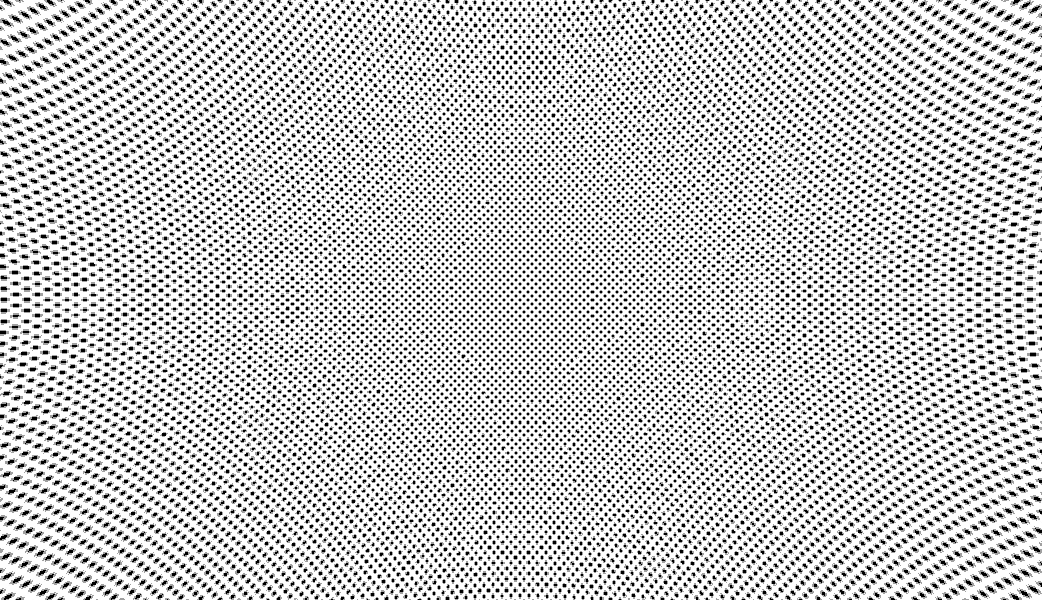
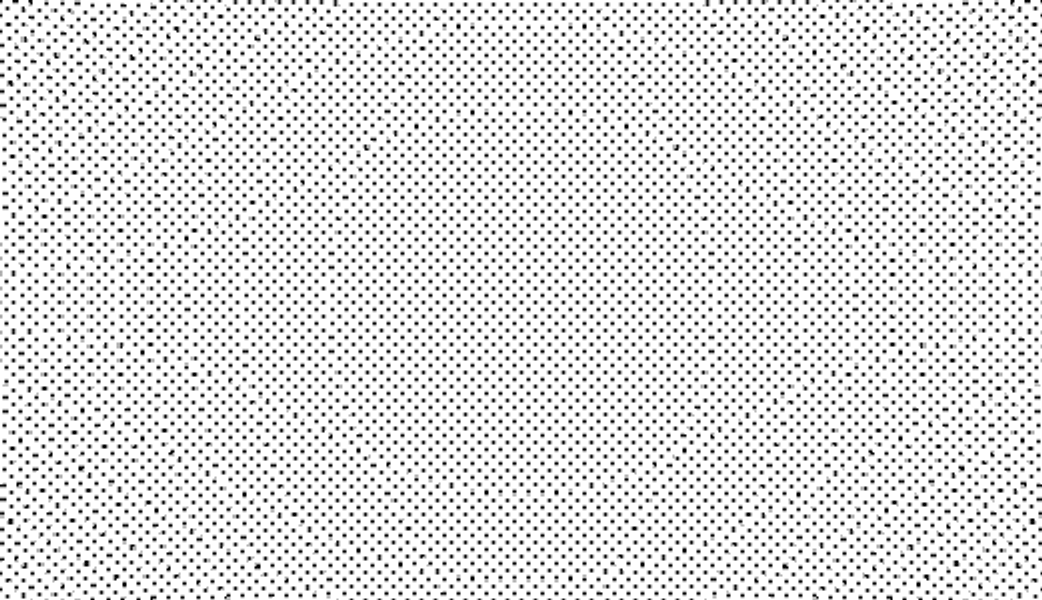
Refactor Page component to replace HeroLogoTextMask with HeroLogoText for improved visual presentation; update mask image and styles for enhanced responsiveness; adjust parameters in generate-warped-mask script for better output quality.

diff --git a/app/components/sections/HeroLogoText.tsx b/app/components/sections/HeroLogoText.tsx
@@ -2,7 +2,6 @@ import Image from "next/image";
 import type { CSSProperties } from "react";
 import heroLogo from "@/public/img/optimized/herologo.webp";
 import ScrollTransform from "@animations/ScrollTransform";
-import HalftoneEffect from "../content/HalftoneEffect";
 export default function HeroLogoText() {
   return (
     // <HalftoneEffect
@@ -12,11 +11,12 @@ export default function HeroLogoText() {
     //   shape="octagon"
     // >
     <div
+      className="sticky top-0 w-full h-[clamp(3svh,57cqw,60svh)] max-w-(--container-width) mx-auto"
       style={
         {
-          containerType: "inline-size",
-          maskImage: "url('/warped-halftone/vector/halftone-hero.svg')",
-          maskSize: "100% 100%",
+          containerType: "size",
+          maskImage: "url('/warped-halftone/halftone-hero.webp')",
+          maskSize: "cover",
           maskPosition: "50% 50%",
           maskRepeat: "no-repeat",
         } as CSSProperties
@@ -24,12 +24,12 @@ export default function HeroLogoText() {
     >
       <ScrollTransform
         start={{ anchor: 0, viewport: 0 }}
-        end={{ anchor: 0.82, viewport: 0 }}
+        end={{ anchor: 0.85, viewport: 0 }}
         from={{ scaleY: 1 }}
         to={{ scaleY: 0.18 }}
         transformOrigin="50% 0%"
         willChange="transform"
-        className="aspect-1042/600 origin-[50%_0%]"
+        className="w-full h-full origin-[50%_0%]"
         style={{
           backfaceVisibility: "hidden",
           WebkitBackfaceVisibility: "hidden",
@@ -37,7 +37,7 @@ export default function HeroLogoText() {
       >
         <h1 className="sr-only">PHANTOM DRUM</h1>
 
-        <div className="p-4">
+        <div className="px-10 py-6 h-full">
           <Image
             src={heroLogo}
             alt="Phantom Drum"
@@ -46,7 +46,7 @@ export default function HeroLogoText() {
             height={600}
             sizes="100vw"
             decoding="sync"
-            className="relative w-full max-h-[calc(80svh-4rem)] skew-y-[0.5deg]"
+            className="relative object-contain w-full h-full skew-y-[0.5deg]"
           />
         </div>
         {/* <h2 className="tracking-[0cqi] text-[7.5cqi] leading-[.8] mt-2 font-normal text-amber-400">

diff --git a/app/page.tsx b/app/page.tsx
@@ -1,10 +1,10 @@
 import CubeSection from "./components/sections/CubeSection";
 import HalftoneEffect from "./components/content/HalftoneEffect";
 import HeroHalftoneSection from "./components/sections/HeroHalftoneSection";
-import HeroLogoTextMask from "./components/sections/HeroLogoTextMask";
 import type { CSSProperties } from "react";
 import ArtistBio from "./components/content/ArtistBio";
 import QuotesSection from "./components/content/QuotesSection";
+import HeroLogoText from "./components/sections/HeroLogoText";
 const HERO_SCALE_MULTIPLIER = 0.18;
 
 export default function Page() {
@@ -27,7 +27,7 @@ export default function Page() {
             } as CSSProperties
           }
         >
-          <HeroLogoTextMask />
+          <HeroLogoText />
           <HalftoneEffect
             dotRadius={1}
             dotSpacing={5}
